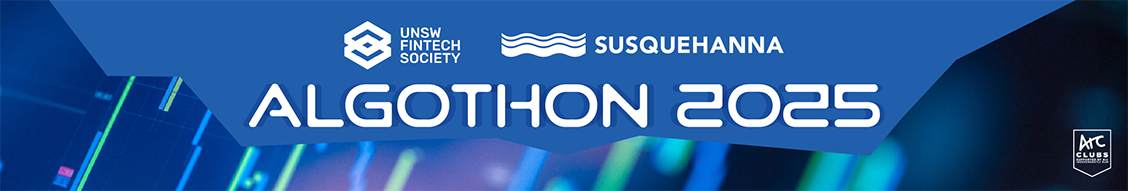
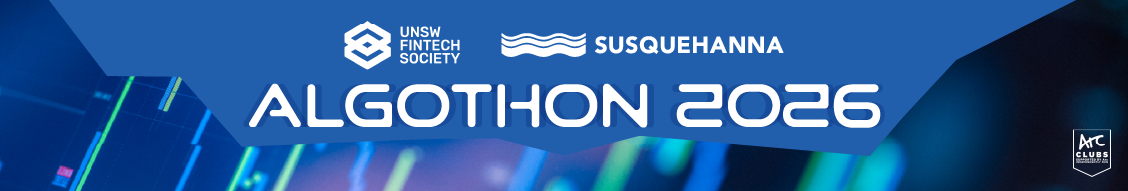
implemented changes from sig

diff --git a/docs/3schedule.md b/docs/3schedule.md
@@ -14,20 +14,18 @@
 
 ### Competition: Timeline
 
-5th June, TIME TBD - Pre Event Launch / Workshop 1
+8th  June,         - Applications open
 
-12th June, TIME TBD - Official Event Launch / Workshop 2
+30th June,         - Python Workshop
 
-29th June, TIME TBD - Registrations Close
+2nd  July,         - AI/ML and Data Analysis Workshop
 
-30th June, TIME TBD - Submission Deadline for Interim Update
+8th  July,         - Applications Close, Event Launch & Test Dataset Released
 
-2nd July, TIME TBD - Mid-Competition Event: Interim Leaderboard Update 1
+16th July,         - Webinar & General Round Dataset Released
 
-14th July, TIME TBD - General Round Submissions Due
+3rd August,        - Finalists Announced & Finalist Dataset Released 
 
-18th July, TIME TBD - Finalists Announcement
+10th August,       - Finalist Round Closes 
 
-25th July, TIME TBD - Final Round Submissions Due
-
-7th August, TIME TBD - Final Presentation
+13th August,       - Final Presentation

diff --git a/docs/6criteria.md b/docs/6criteria.md
@@ -1,6 +1,6 @@
 # Judging Criteria
 
-### **Technical: 100% (Preliminary), 75% (Finals)**
+### **Technical: 100% (Preliminary), 50% (Finals)**
 
 Your algorithms will be assessed based on the quality of **overall performance**, as well as the creativity and originality of implementation.
 
@@ -12,7 +12,7 @@ The algorithm will be evaluated on the basis of what we believe is achievable wi
 
 [//]: # (Prioritising one metric over all others is inadvisable. However, feel free to create an algorithm that preferences achieving optimal results in one or two metrics as long as there is valid reasoning behind this &#40;e.g. minimise risk at the expense of lower return&#41;.)
 
-### **Presentation: 25% (Finals)**
+### **Presentation: 50% (Finals)**
 
 Your presentation will be assessed on whether or not there is evidence of:
 

diff --git a/docs/index.md b/docs/index.md
@@ -8,7 +8,7 @@
 
 [//]: # "For full documentation visit [mkdocs.org](https://www.mkdocs.org)."
 
-Welcome to the sixth year of the Algothon - the first student-led algorithmic trading hackathon in Australia!
+Welcome to the seventh year of the Algothon - the first student-led algorithmic trading hackathon in Australia!
 
 This site contains the rules, guidelines and information required to help you complete Algothon 2026
 